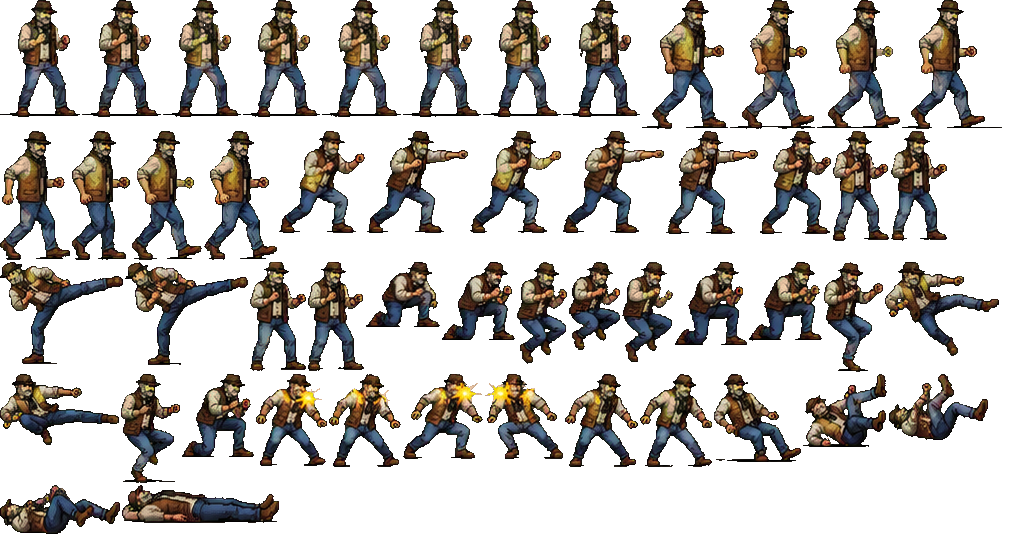
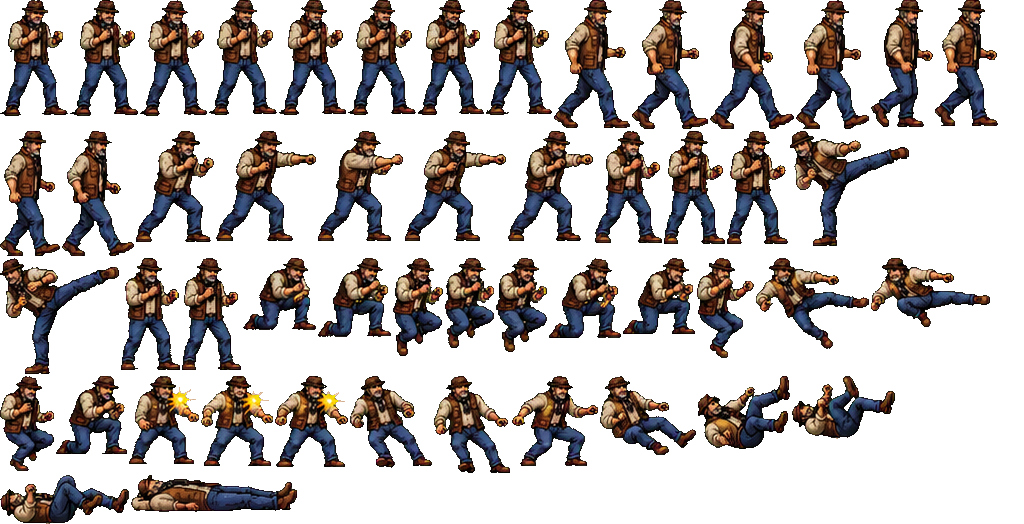
feat: Martín desde la lámina regenerada (fighter-martin-optimo.png)
Chaleco marrón coherente, cara definida, sin verde derramado; escala de caminar igualada a la de reposo.

diff --git a/tools/extract_sprites.py b/tools/extract_sprites.py
@@ -18,7 +18,7 @@ SOURCES = {
     'chapa_chroma': ('documentacion/fighter-chapa-chroma.png', 'chroma'),
     'ares_dark': ('documentacion/fighter-ares.png', 'dark'),
     'alba': ('documentacion/fighter-alba.png', 'pure'),
-    'martin': ('documentacion/fighter-martin.png', 'pure'),
+    'martin': ('documentacion/fighter-martin-optimo.png', 'pure'),
 }
 
 # fila: (fuente, y0, y1, x0, x1, nframes, escala)
@@ -66,16 +66,18 @@ FIGHTERS = {
         },
     },
     'martin': {
-        'portrait': ('martin', 22, 92, 224, 282),  # (x0, y0, x1, y1)
+        # Lámina regenerada (fighter-martin-optimo.png): colores coherentes y cara definida.
+        # En ella la fila de caminar está dibujada más grande que la de reposo; su escala lo compensa.
+        'portrait': ('martin', 22, 92, 236, 288),  # (x0, y0, x1, y1)
         'rows': {
-            'idle':     ('martin', 46, 182, 530, 1305, 8, 1.06),
-            'walk':     ('martin', 246, 392, 530, 1305, 8, 1.06),
-            'punch':    ('martin', 540, 662, 20, 640, 6, 1.13),
-            'kick':     ('martin', 540, 662, 650, 1345, 6, 1.13),
-            'jump':     ('martin', 670, 822, 20, 640, 6, 1.13),
-            'jumpkick': ('martin', 690, 822, 650, 1370, 6, 1.13),
-            'hit':      ('martin', 856, 962, 20, 640, 6, 1.13),
-            'ko':       ('martin', 856, 962, 650, 1370, 5, 1.13),
+            'idle':     ('martin', 40, 178, 545, 1290, 8, 1.08),
+            'walk':     ('martin', 225, 376, 540, 1300, 8, 0.975),
+            'punch':    ('martin', 532, 664, 15, 640, 6, 1.08),
+            'kick':     ('martin', 532, 664, 650, 1345, 6, 1.08),
+            'jump':     ('martin', 668, 815, 15, 645, 6, 1.08),
+            'jumpkick': ('martin', 668, 815, 655, 1375, 6, 1.08),
+            'hit':      ('martin', 838, 952, 15, 640, 6, 1.08),
+            'ko':       ('martin', 850, 955, 650, 1375, 5, 1.08),
         },
     },
 }

diff --git a/README.md b/README.md
@@ -79,7 +79,7 @@ Añadir un escenario: imagen en `documentacion/` + entrada en `STAGES` de `tools
 ## Decisiones respecto al plan técnico
 
 - **Canvas 2D propio en lugar de Phaser**: menos peso en móvil, simulación determinista a 60 Hz testeable en Node y cero dependencias de runtime. La arquitectura (escenas, luchador, combate, sistemas, UI) sigue la del plan.
-- **Sprites recortados de las láminas**: el plan pedía no usar las láminas como spritesheet, pero son el único arte disponible. Se recortan frame a frame con transparencia real, ancla en los pies y escala normalizada. Chapa sale entero de la lámina con croma verde (`fighter-chapa-chroma.png`). De la lámina croma de Ares solo se usan idle, walk y el retrato: en el resto de filas el personaje lleva otra ropa, así que esas siguen saliendo de la lámina original. Las láminas de Alba y Martín tienen verde derramado sobre el personaje: se recortan con un modo más estricto que además quita la sombra pintada bajo los pies y recolorea a tono cálido los píxeles manchados de verde (cara y camisa de Martín). Algunos frames de Martín siguen con el chaleco algo amarillento porque así vienen pintados en la lámina.
+- **Sprites recortados de las láminas**: el plan pedía no usar las láminas como spritesheet, pero son el único arte disponible. Se recortan frame a frame con transparencia real, ancla en los pies y escala normalizada. Chapa sale entero de la lámina con croma verde (`fighter-chapa-chroma.png`). De la lámina croma de Ares solo se usan idle, walk y el retrato: en el resto de filas el personaje lleva otra ropa, así que esas siguen saliendo de la lámina original. Las láminas de Alba y Martín usan croma verde puro: se recortan con un modo más estricto que además quita la sombra pintada bajo los pies, los rótulos pegados y cualquier verde derramado sobre el personaje. Martín sale de `fighter-martin-optimo.png` (lámina regenerada con colores coherentes); en ella la fila de caminar está dibujada más grande que la de reposo y su escala lo compensa.
 
 ## Recursos gráficos pendientes
 
